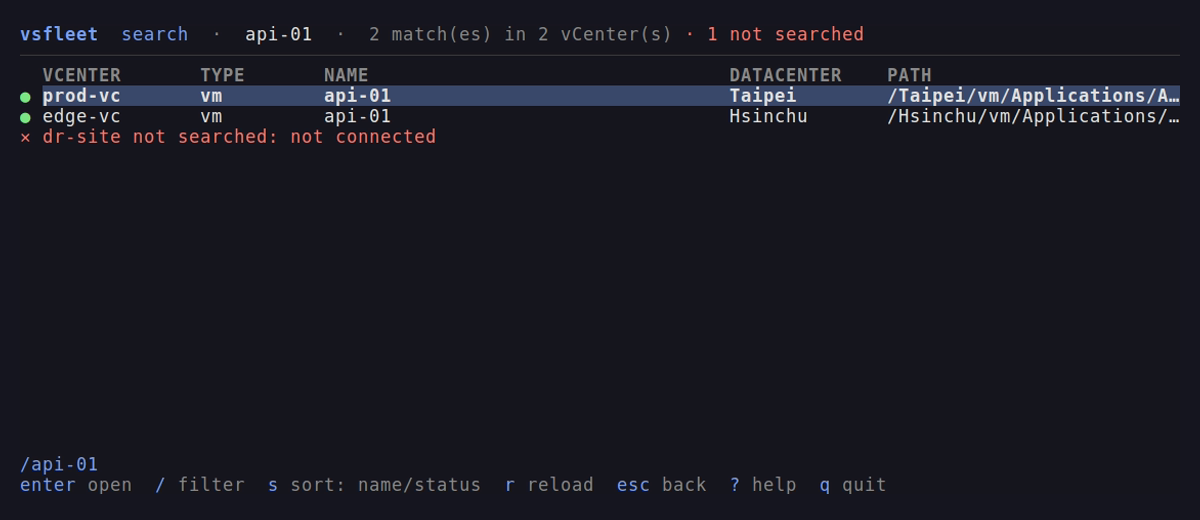
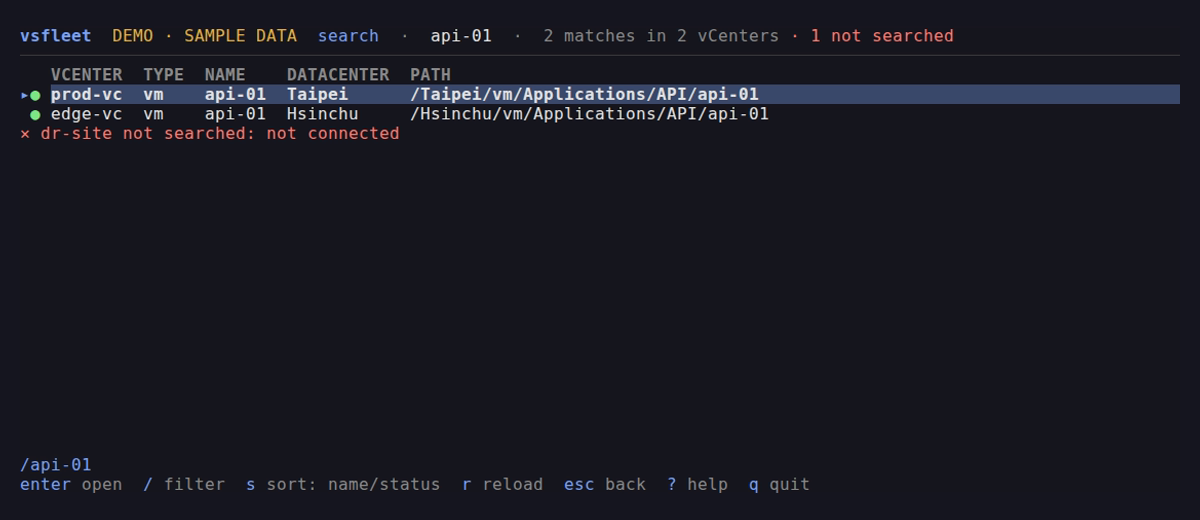
docs(tui): re-record demo for the current TUI (#321)

Changed region(s): [[0.0, 0.1231, 0.9867, 0.2769], [0.0, 0.0308, 0.8017, 0.0923], [0.0, 0.8615, 0.74, 0.9538]]

diff --git a/README.md b/README.md
@@ -16,7 +16,7 @@
 <p align="center">
   <picture>
     <source media="(prefers-reduced-motion: reduce)" srcset="docs/assets/vsfleet.png">
-    <img src="docs/assets/vsfleet.gif" alt="vsfleet ranking assessment changes by migration impact across a run axis, reviewing stored runs and the read-only health verdict, then inspecting VM and vApp inventory across three vCenters, widening a filter into an estate-wide search, and diagnosing an unavailable site" width="1200">
+    <img src="docs/assets/vsfleet.gif" alt="vsfleet browsing a synthetic three-vCenter estate, opening VM performance charts and distributed-switch wiring, widening a VM filter into an estate-wide search, and diagnosing an unavailable DR site" width="1200">
   </picture>
 </p>
 

diff --git a/docs/index.md b/docs/index.md
@@ -7,7 +7,7 @@ whole estate in one run — from Linux, macOS or Windows, with no GUI and no .NE
 runtime. It organizes each vCenter into a named context, so you can search the
 estate and compare changes without juggling browser tabs or scripts.
 
-![vsfleet inspecting inventory across three vCenters](assets/vsfleet.gif){ width="1200" }
+![vsfleet inspecting VM performance and network wiring across three vCenters, then searching the estate and diagnosing an unavailable site](assets/vsfleet.gif){ width="1200" }
 
 ## Try it without a vCenter
 
